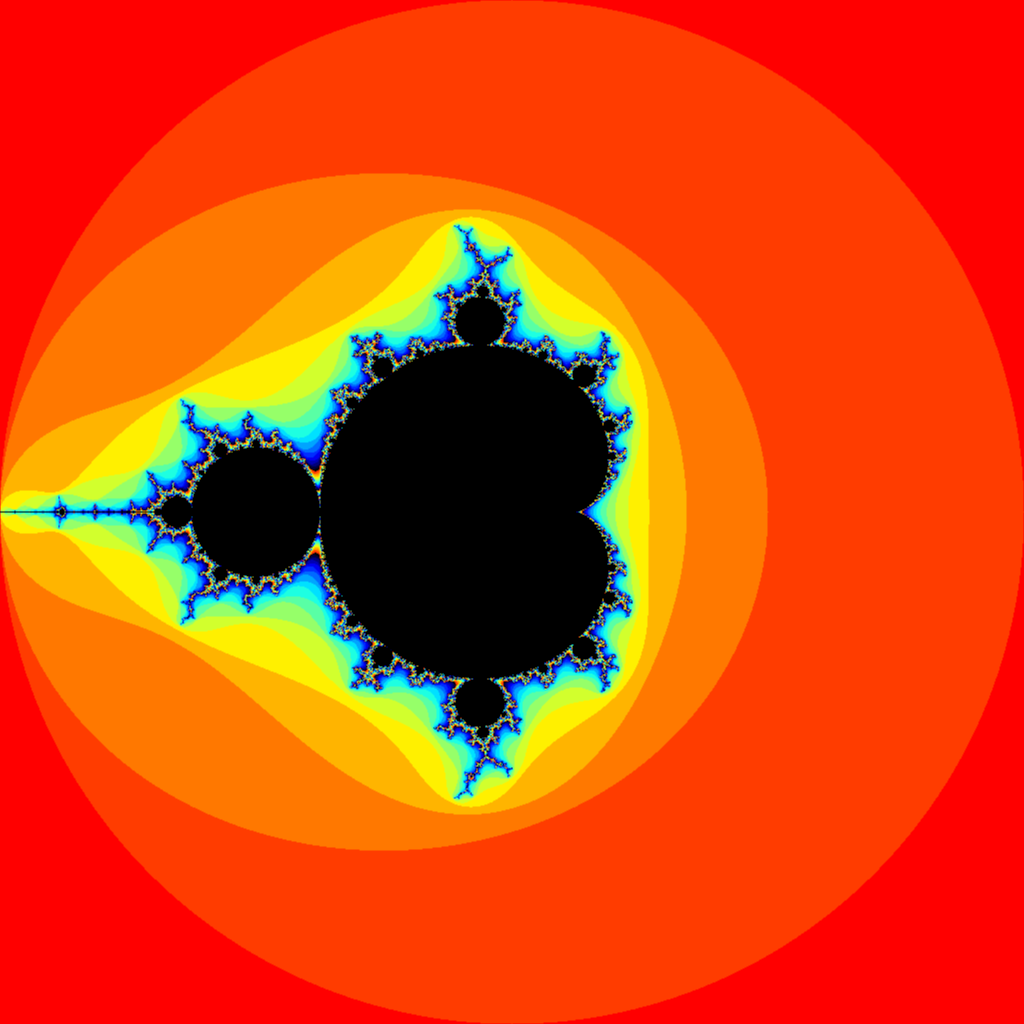
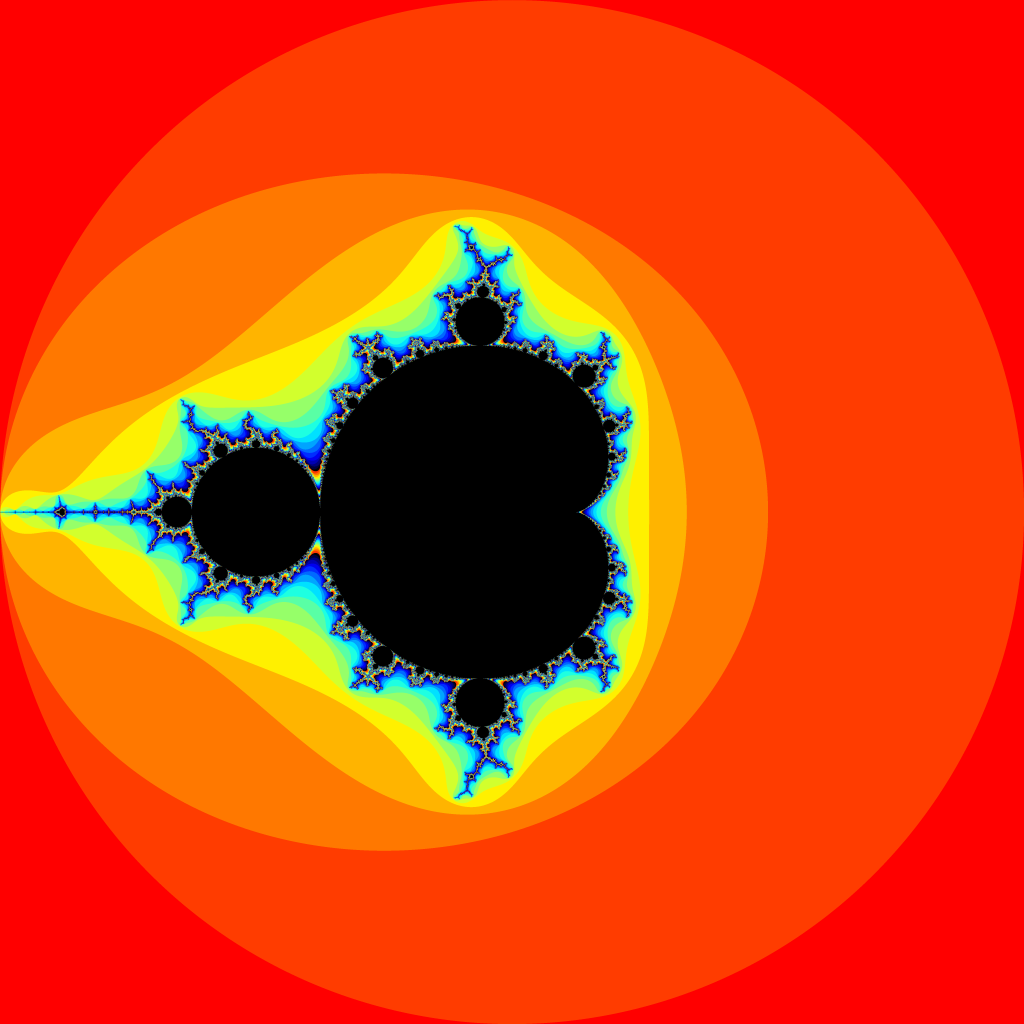
fix supersampling

diff --git a/ch03/ex06/mandelbrot.go b/ch03/ex06/mandelbrot.go
@@ -11,22 +11,24 @@ import (
 
 func main() {
 	const (
+		ssRate = 5
 		xmin, ymin, xmax, ymax = -2, -2, +2, +2
-		width, height          = 1024, 1024
+		width, height = 1024, 1024
+		sWidth, sHeight = width*ssRate, height*ssRate
 	)
 	img := image.NewRGBA(image.Rect(0, 0, width, height))
-	for py := 0; py < height; py++ {
-		for px := 0; px < width; px++ {
+	for py := 0; py < sWidth; py+=ssRate {
+		for px := 0; px < sHeight; px+=ssRate {
 			var subPixels []color.Color
-			for py_ := py; py_ < py+2; py_++ {
-				for px_ := px; px_ < px+2; px_++ {
-					y := float64(py_)/height*(ymax-ymin) + ymin
-					x := float64(px_)/width*(xmax-xmin) + xmin
+			for py_ := py; py_ < py+ssRate; py_++ {
+				for px_ := px; px_ < px+ssRate; px_++ {
+					y := float64(py_)/sWidth*(ymax-ymin) + ymin
+					x := float64(px_)/sHeight*(xmax-xmin) + xmin
 					z := complex(x, y)
 					subPixels = append(subPixels, mandelbrot(z))
 				}
 			}
-			img.Set(px, py, colorsAverage(subPixels))
+			img.Set(px/ssRate, py/ssRate, colorsAverage(subPixels))
 		}
 	}
 	png.Encode(os.Stdout, img)
